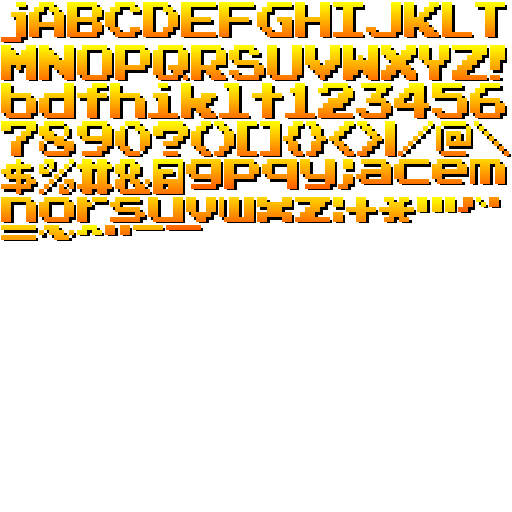
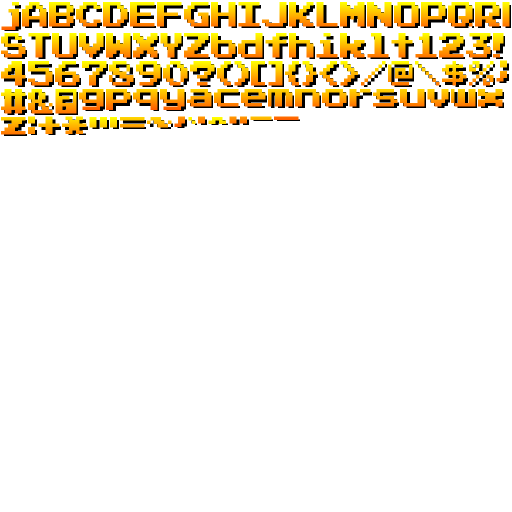
**circle->Note ++comboChangeFontColor

diff --git a/core/src/com/mygdx/game/WorldRenderer.java b/core/src/com/mygdx/game/WorldRenderer.java
@@ -10,12 +10,25 @@ public class WorldRenderer {
 	SpriteBatch batch;
 	World world;
 	BitmapFont y_oFont;
-	
+	BitmapFont b_bFont;
+	BitmapFont p_pFont;
+	BitmapFont w_gFont;
+	BitmapFont g_gFont;
+	BitmapFont scoreFont;
+	BitmapFont comboFont;
 	
 	public WorldRenderer(World world) {
 		batch = new SpriteBatch();
 		this.world = world;
+		
 		y_oFont = new BitmapFont(Gdx.files.internal("yellowOrangeArcade.fnt"));
+		b_bFont = new BitmapFont(Gdx.files.internal("blueDarkBlueArcade.fnt"));
+		p_pFont = new BitmapFont(Gdx.files.internal("pinkPurpleArcade.fnt"));
+		w_gFont = new BitmapFont(Gdx.files.internal("whiteGrayArcade.fnt"));
+		g_gFont = new BitmapFont(Gdx.files.internal("greenDarkGreenArcade.fnt"));
+		
+		scoreFont = w_gFont;
+		//comboFont = y_oFont;
 	}
 	
 	public void render() {
@@ -24,7 +37,7 @@ public class WorldRenderer {
 		drawDotLine();
 		for(int i=0;i<World.NBOFCOLOR;i++) {	
 			drawPressButton(world.lines[i]);
-			drawCircleLine(world.lines[i].circles);
+			drawNoteLine(world.lines[i].notes);
 		}
 		drawScore();
 		drawCombo();
@@ -33,16 +46,36 @@ public class WorldRenderer {
 	
 	public void drawScore() {
 		String scoreString = "score: " + World.score.score;
-		y_oFont.draw(batch,scoreString,GuitarHeroGame.WIDTH - 550,GuitarHeroGame.HEIGHT- 250);
+		float width = getFontWidth(scoreFont,scoreString);
+		float xPosition = getRightXPosition(width) - 50;
+		scoreFont.draw(batch,scoreString,xPosition,GuitarHeroGame.HEIGHT- 250);
 	}
 	
 	public void drawCombo() { 
 		if(World.score.combo > 0) {
+			updateComboFont();
 			String comboString = World.score.combo + " combo";
-			float width = getFontWidth(y_oFont,comboString);
+			float width = getFontWidth(comboFont,comboString);
 			float xPosition = getCenterXPosition(width);
-			y_oFont.draw(batch,comboString,xPosition,GuitarHeroGame.HEIGHT- 100);
+			comboFont.draw(batch,comboString,xPosition,GuitarHeroGame.HEIGHT- 150);
 		}
+	}
+	
+	public void updateComboFont() {
+		int combo = World.score.combo;
+		if(combo <= 10) {
+			comboFont = b_bFont;
+		} else if(combo <= 20) {
+			comboFont = g_gFont;
+		} else if(combo < 30) {
+			comboFont = p_pFont;
+		} else {
+			comboFont = y_oFont;
+		}
+	}
+	
+	public float getRightXPosition(float objWidth) {
+		return GuitarHeroGame.WIDTH - objWidth;
 	}
 	
 	public float getCenterXPosition(float objWidth) {
@@ -64,18 +97,17 @@ public class WorldRenderer {
 		}
 	}
 	
-	public void drawCircleLine(Circle [] circles) {
-		for(int i=circles.length - 1;i >= 0;i--) {
-			if(circles[i] != null && circles[i].position.y <= GuitarHeroGame.HEIGHT * 3 / 4) {
-				float nowWidth = circles[i].circleImg.getWidth() * circles[i].factor;
-				float nowHeight = circles[i].circleImg.getHeight() * circles[i].factor;
-				batch.draw(circles[i].circleImg, circles[i].position.x,circles[i].position.y, nowWidth, nowHeight);
-				//batch.draw(circles[i].circleImg, circles[i].position.x,circles[i].position.y);
+	public void drawNoteLine(Note [] notes) {
+		for(int i=notes.length - 1;i >= 0;i--) {
+			if(notes[i] != null && notes[i].position.y <= GuitarHeroGame.HEIGHT * 3 / 4) {
+				float nowWidth = notes[i].noteImg.getWidth() * notes[i].factor;
+				float nowHeight = notes[i].noteImg.getHeight() * notes[i].factor;
+				batch.draw(notes[i].noteImg, notes[i].position.x,notes[i].position.y, nowWidth, nowHeight);
 			}
 		}
 	}
 	
-	public void drawPressButton(LineCircle lineCircle) {
+	public void drawPressButton(NoteLine lineCircle) {
 		if(lineCircle.isPress) {
 			batch.draw(lineCircle.pushPressButtonImg, lineCircle.x,lineCircle.buttonYPosition);
 			lineCircle.isPress = false;

diff --git a/core/src/com/mygdx/game/NoteLine.java b/core/src/com/mygdx/game/NoteLine.java
@@ -1,0 +1,131 @@
+package com.mygdx.game;
+
+import com.badlogic.gdx.Gdx;
+import com.badlogic.gdx.graphics.Texture;
+
+public class NoteLine {
+	float x;
+	public static final int MAXNOTEPERLINE = 15;
+	public Note [] notes = new Note [MAXNOTEPERLINE];
+	public int [] songTime;
+	public Timer timer;
+	public int pushButtonKey;
+	public Texture pushUnPressButtonImg;
+	public Texture pushPressButtonImg;
+	public float buttonYPosition = 10;
+	public boolean isPress = false;
+	public boolean oldIsPress = false;
+	public Texture noteImg;
+	public Texture noteComboImg;
+	public int color;
+	private boolean isCollected = false;
+	
+	public NoteLine(int x,int [] songTime,Timer timer,int pushButtonKey,Texture [] texture,int color) {
+		this.x = x;
+		this.songTime = songTime;
+		this.timer = timer;
+		this.pushButtonKey = pushButtonKey;
+		this.pushUnPressButtonImg = texture[World.UNPRESS];
+		this.pushPressButtonImg = texture[World.PRESS];
+		this.noteImg = texture[World.NOTE];
+		this.noteComboImg = texture[World.NOTECOMBO];
+		this.color = color;
+	}
+	
+	public void update() {
+		runNotes();
+		if(itsTimeToReserve(timer.getTime())) {
+			reserveNotes();		
+		}
+		buttonPress();
+	}
+	
+	public void buttonPress() {
+		if(isButtonPress() && !oldIsPress) {
+			float distance = removeNearestnote();
+			World.score.updateScore(distance);
+		}
+		oldIsPress = isPress;
+	}
+
+	private boolean isButtonPress() {
+		if(Gdx.input.isKeyPressed(pushButtonKey) && !isCollected) {
+			isPress = true;
+			return true;
+		}
+		if(!Gdx.input.isKeyPressed(pushButtonKey)) {
+			isCollected = false;
+		}
+		
+		return false;
+	}
+	
+	private float removeNearestnote() {
+		float distance;
+		float minDistance = Float.MAX_VALUE;
+		int position = -1;
+		for(int i=0;i<notes.length;i++) {
+			if(notes[i] != null) {
+				distance = notes[i].position.y - buttonYPosition;
+				//System.out.print("distance: " + distance);
+				if(distance <= 200 && distance < minDistance) {
+					minDistance = distance;
+					position = i;
+				}
+			}
+		}
+		
+		if(position != -1) {
+			notes[position].removeThis = true;
+			removeNote(position);
+			isCollected = true;
+		}
+		//System.out.println(minDistance);
+		
+		return minDistance;
+	}
+	
+	private boolean itsTimeToReserve(int time) {
+		for(int i=0;i<songTime.length;i++) {
+			if(time == songTime[i]) {
+				return true;
+			}
+		}
+		return false;
+	}
+	
+	private void runNotes() {
+		for(int i=0;i<notes.length;i++) {
+			if(notes[i] != null) {
+				notes[i].update();
+				removeNote(i);
+			}
+		}
+	}
+	
+	private void removeNote(int position) {
+		if(notes[position].removeThis) {
+			notes[position] = null;
+		}
+	}
+	
+	private void reserveNotes() {
+		int pos = findExist();
+		if(pos >= 0) {
+			addNote(pos);
+		}
+	}
+	
+	private int findExist() {
+		for(int i=0;i<notes.length;i++) {
+			if(notes[i] == null)
+				return i;
+		}
+		return -1;
+	}
+	
+	private void addNote(int pos) {
+		//System.out.println(x);
+		notes[pos] = new Note(x,noteImg,color);
+	}
+}

diff --git a/core/src/com/mygdx/game/World.java b/core/src/com/mygdx/game/World.java
@@ -13,10 +13,11 @@ public class World {
 	
 	public static final int PRESS = 0;
 	public static final int UNPRESS = 1;
-	public static final int CIRCLE = 2;
-	public static final int NBOFSTATE = 3;
+	public static final int NOTE = 2;
+	public static final int NOTECOMBO = 3;
+	public static final int NBOFSTATE = 4;
 
-	LineCircle [] lines;
+	NoteLine [] lines;
 	
 	public Texture [][] eachLineImg;
 	public int [] xPosition;
@@ -45,16 +46,20 @@ public class World {
 		eachLineImg = new Texture [NBOFCOLOR][NBOFSTATE];
 		eachLineImg[RED][UNPRESS] = new Texture("redButtonFrame.png");
 		eachLineImg[RED][PRESS] = new Texture("redButtonFramePress.png");
-		eachLineImg[RED][CIRCLE] = new Texture("redCircle.png");
+		eachLineImg[RED][NOTE] = new Texture("redCircle.png");
+		eachLineImg[RED][NOTECOMBO] = new Texture("redCircleCombo.png");
 		eachLineImg[BLUE][UNPRESS] = new Texture("blueButtonFrame.png");
 		eachLineImg[BLUE][PRESS] = new Texture("blueButtonFramePress.png");
-		eachLineImg[BLUE][CIRCLE] = new Texture("blueCircle.png");
+		eachLineImg[BLUE][NOTE] = new Texture("blueCircle.png");
+		eachLineImg[BLUE][NOTECOMBO] = new Texture("blueCircleCombo.png");
 		eachLineImg[GREEN][UNPRESS] = new Texture("greenButtonFrame.png");
 		eachLineImg[GREEN][PRESS] = new Texture("greenButtonFramePress.png");
-		eachLineImg[GREEN][CIRCLE] = new Texture("greenCircle.png");
+		eachLineImg[GREEN][NOTE] = new Texture("greenCircle.png");
+		eachLineImg[GREEN][NOTECOMBO] = new Texture("greenCircleCombo.png");
 		eachLineImg[YELLOW][UNPRESS] = new Texture("yellowButtonFrame.png");
 		eachLineImg[YELLOW][PRESS] = new Texture("yellowButtonFramePress.png");
-		eachLineImg[YELLOW][CIRCLE] = new Texture("yellowCircle.png");
+		eachLineImg[YELLOW][NOTE] = new Texture("yellowCircle.png");
+		eachLineImg[YELLOW][NOTECOMBO] = new Texture("yellowCircleCombo.png");
 		
 		timer = new Timer();
 		
@@ -63,13 +68,10 @@ public class World {
 		xPosition[BLUE] = GuitarHeroGame.WIDTH/2-eachLineImg[BLUE][UNPRESS].getWidth() - 5;
 		xPosition[GREEN] = GuitarHeroGame.WIDTH/2 + 5;
 		xPosition[YELLOW] = GuitarHeroGame.WIDTH/2 + 15 + eachLineImg[BLUE][UNPRESS].getWidth();
-		//for(int i=1;i<xPosition.length;i++) {
-		//	xPosition[i] = xPosition[i-1] + 300;
-		//}
-		
-		lines = new LineCircle [NBOFCOLOR];
+
+		lines = new NoteLine [NBOFCOLOR];
 		for(int i=0;i<NBOFCOLOR;i++) {
-			lines[i] = new LineCircle(xPosition[i],song[i],timer,keys[i],eachLineImg[i][UNPRESS],eachLineImg[i][PRESS],eachLineImg[i][CIRCLE],i);
+			lines[i] = new NoteLine(xPosition[i],song[i],timer,keys[i],eachLineImg[i],i);
 		}
 		
 		dotImg = new Texture("dotResize.png");

diff --git a/core/src/com/mygdx/game/Note.java b/core/src/com/mygdx/game/Note.java
@@ -1,0 +1,65 @@
+package com.mygdx.game;
+
+import com.badlogic.gdx.graphics.Texture;
+import com.badlogic.gdx.math.Vector2;
+
+public class Note {
+
+	public Vector2 position;
+	public Texture noteImg;
+	public boolean removeThis = false;
+	public float initYPosition = GuitarHeroGame.HEIGHT;
+	public float factor;
+	public int color;
+	
+	
+	public Note (float x,Texture noteImg,int color) {
+		this.noteImg = noteImg;
+		position = new Vector2(x,initYPosition);
+		factor = (initYPosition-position.y)/initYPosition;
+		this.color = color;
+	}
+	
+	public void update() {
+		updateFactor();
+		playing();
+		deleting();
+	}
+	
+	private void updateFactor() {
+		factor = (initYPosition-position.y)/initYPosition;
+	}
+	
+	private void playing() {
+		position.y -= World.speed;
+		position.x = calXPosition(position.y);
+	}
+	
+	private float calXPosition(float y) {
+		float xPosition = 0;
+		switch(color) {
+			case World.RED:
+				xPosition = GuitarHeroGame.WIDTH/2 - 15 - 2 * noteImg.getWidth()*factor;
+				break;
+			case World.BLUE:
+				xPosition = GuitarHeroGame.WIDTH/2 - 5 - noteImg.getWidth()*factor;
+				break;
+			case World.GREEN:
+				xPosition = GuitarHeroGame.WIDTH/2 + 5;
+				break;
+			case World.YELLOW:
+				xPosition = GuitarHeroGame.WIDTH/2 + 15 + noteImg.getWidth()*factor;
+				break;
+			default:
+				break;
+		}
+		return xPosition;
+	}
+	
+	private void deleting() {
+		if(position.y + noteImg.getHeight() < 0) {
+			removeThis = true;
+			World.score.updateCombo(-1);
+		}
+	}
+}

diff --git a/core/src/com/mygdx/game/DotLine.java b/core/src/com/mygdx/game/DotLine.java
@@ -65,15 +65,15 @@ public class DotLine {
 		float factor = (GuitarHeroGame.HEIGHT-yPosition)/GuitarHeroGame.HEIGHT;
 		switch(line) {
 			case 0:
-				return GuitarHeroGame.WIDTH/2 - 40 - 2 * world.eachLineImg[World.RED][World.CIRCLE].getWidth()*factor - dotImg.getWidth()/2;
+				return GuitarHeroGame.WIDTH/2 - 40 - 2 * world.eachLineImg[World.RED][World.NOTE].getWidth()*factor - dotImg.getWidth()/2;
 			case 1:
-				return GuitarHeroGame.WIDTH/2 - 20 - world.eachLineImg[World.RED][World.CIRCLE].getWidth()*factor - dotImg.getWidth()/2;
+				return GuitarHeroGame.WIDTH/2 - 20 - world.eachLineImg[World.RED][World.NOTE].getWidth()*factor - dotImg.getWidth()/2;
 			case 2:
 				return GuitarHeroGame.WIDTH/2 - dotImg.getWidth()/2;
 			case 3:
-				return GuitarHeroGame.WIDTH/2 + 20 + world.eachLineImg[World.RED][World.CIRCLE].getWidth()*factor - dotImg.getWidth()/2;
+				return GuitarHeroGame.WIDTH/2 + 20 + world.eachLineImg[World.RED][World.NOTE].getWidth()*factor - dotImg.getWidth()/2;
 			case 4:
-				return GuitarHeroGame.WIDTH/2 + 40 + 2 * world.eachLineImg[World.RED][World.CIRCLE].getWidth()*factor - dotImg.getWidth()/2;
+				return GuitarHeroGame.WIDTH/2 + 40 + 2 * world.eachLineImg[World.RED][World.NOTE].getWidth()*factor - dotImg.getWidth()/2;
 			default:
 				break;
 		}
